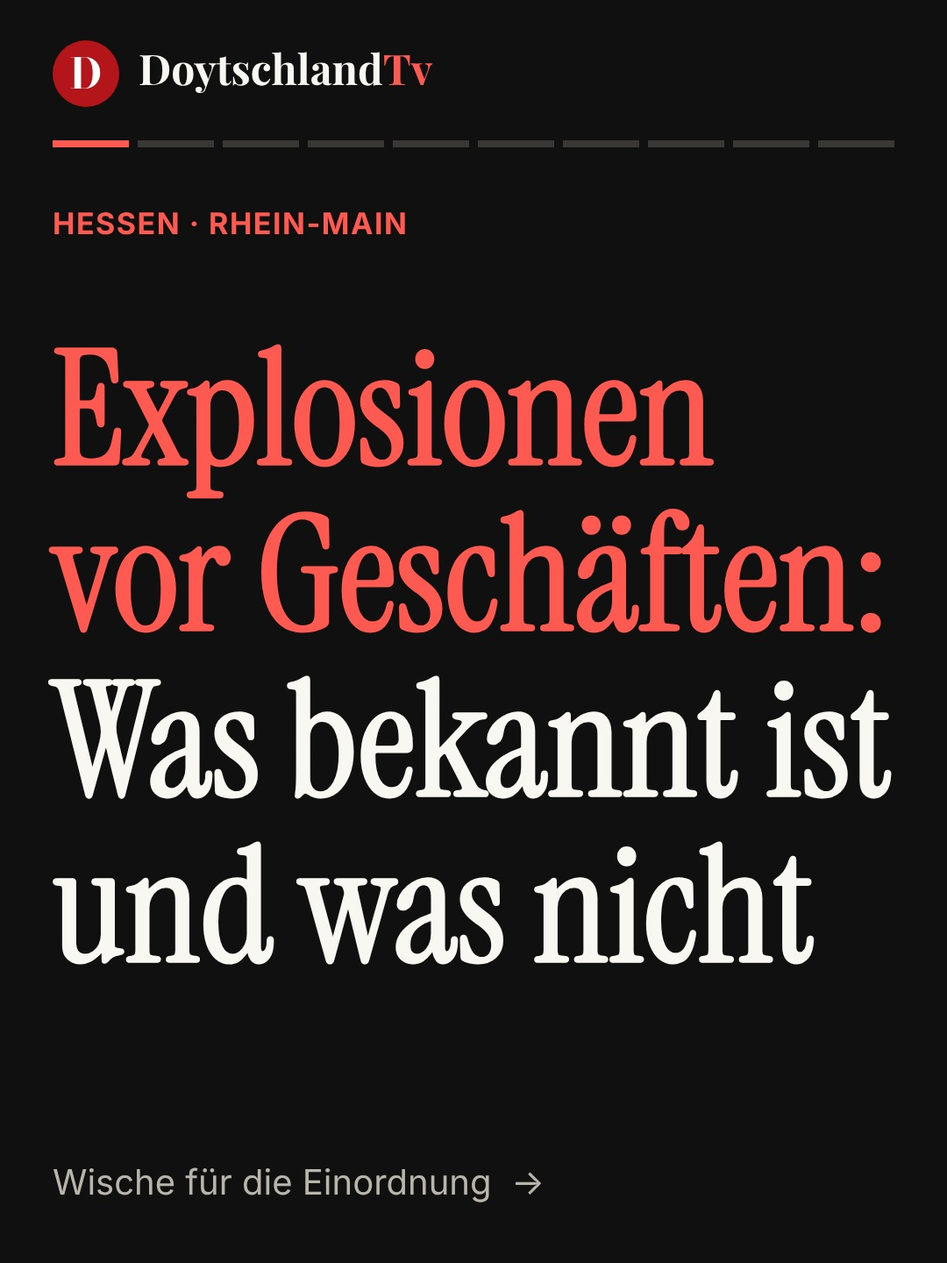
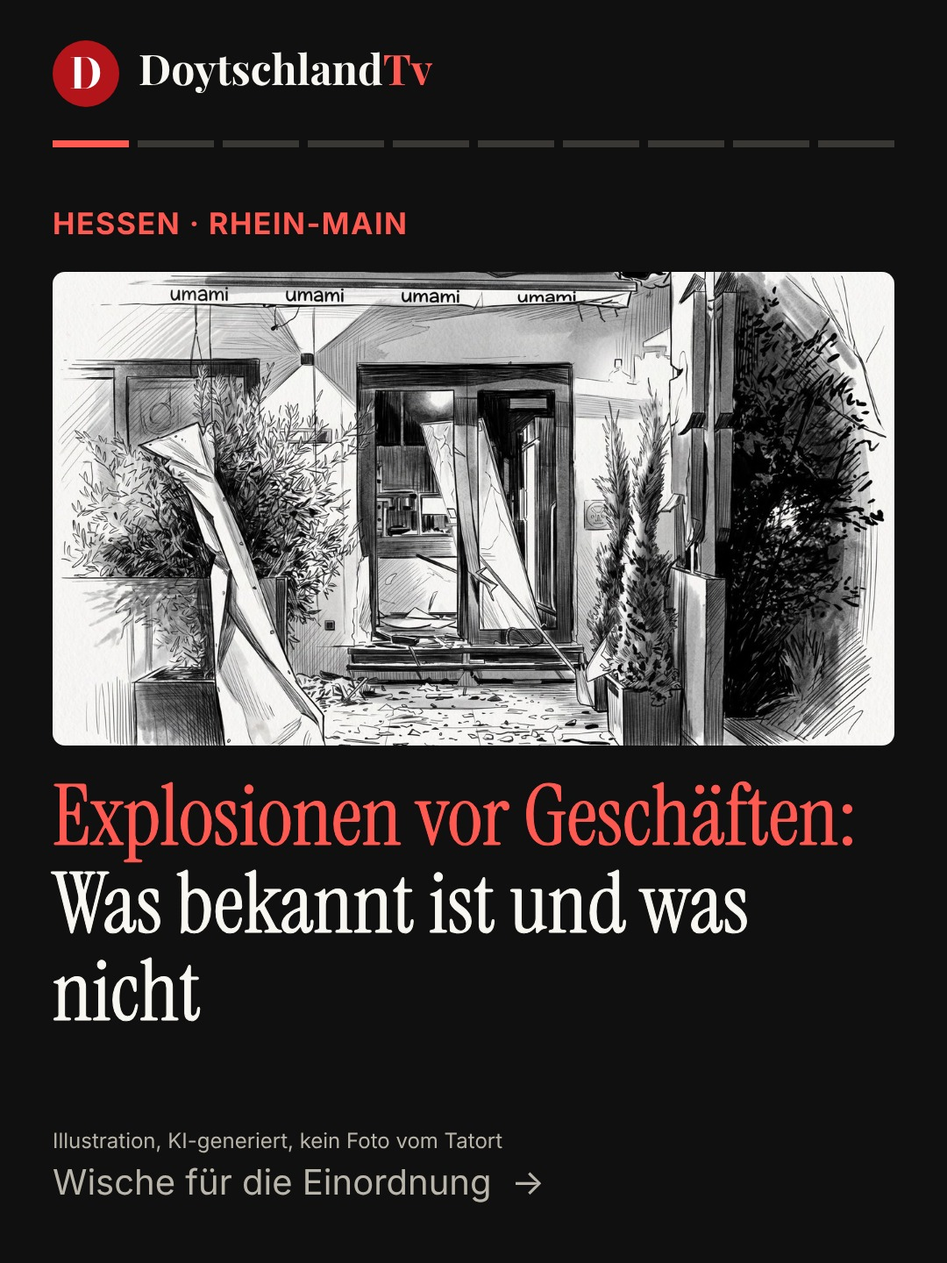
Entwurf Hofheim: Titelbild
Claude-Session: https://claude.ai/code/session_01HADCkE2LZJHKQCUdz9XwMJ

diff --git a/beitrag/2026-10-19-explosionen-vor-geschaeften-hofheim-und-die-serie-im-rhein-main-gebiet.html b/beitrag/2026-10-19-explosionen-vor-geschaeften-hofheim-und-die-serie-im-rhein-main-gebiet.html
@@ -5,10 +5,10 @@
 <link rel="canonical" href="https://doytschtv.de/beitrag/2026-10-19-explosionen-vor-geschaeften-hofheim-und-die-serie-im-rhein-main-gebiet.html">
 <meta name="robots" content="index,follow,max-image-preview:large">
 <meta property="og:type" content="article"><meta property="og:site_name" content="DoytschlandTv"><meta property="og:locale" content="de_DE">
-<meta property="og:title" content="Explosionen vor Geschäften: Hofheim und die Serie im Rhein-Main-Gebiet"><meta property="og:description" content="Am Eingang des Imbisses „Umami Kebabkunst“ explodierte in der Nacht zu Montag ein Sprengsatz. Glastüren wurden herausgerissen, Fenster zerbrachen, auch im…"><meta property="og:url" content="https://doytschtv.de/beitrag/2026-10-19-explosionen-vor-geschaeften-hofheim-und-die-serie-im-rhein-main-gebiet.html"><meta property="og:image" content="https://doytschtv.de/og-image.png">
-<meta name="twitter:card" content="summary_large_image"><meta name="twitter:title" content="Explosionen vor Geschäften: Hofheim und die Serie im Rhein-Main-Gebiet"><meta name="twitter:description" content="Am Eingang des Imbisses „Umami Kebabkunst“ explodierte in der Nacht zu Montag ein Sprengsatz. Glastüren wurden herausgerissen, Fenster zerbrachen, auch im…"><meta name="twitter:image" content="https://doytschtv.de/og-image.png">
+<meta property="og:title" content="Explosionen vor Geschäften: Hofheim und die Serie im Rhein-Main-Gebiet"><meta property="og:description" content="Am Eingang des Imbisses „Umami Kebabkunst“ explodierte in der Nacht zu Montag ein Sprengsatz. Glastüren wurden herausgerissen, Fenster zerbrachen, auch im…"><meta property="og:url" content="https://doytschtv.de/beitrag/2026-10-19-explosionen-vor-geschaeften-hofheim-und-die-serie-im-rhein-main-gebiet.html"><meta property="og:image" content="https://doytschtv.de/titel-hofheim.jpg">
+<meta name="twitter:card" content="summary_large_image"><meta name="twitter:title" content="Explosionen vor Geschäften: Hofheim und die Serie im Rhein-Main-Gebiet"><meta name="twitter:description" content="Am Eingang des Imbisses „Umami Kebabkunst“ explodierte in der Nacht zu Montag ein Sprengsatz. Glastüren wurden herausgerissen, Fenster zerbrachen, auch im…"><meta name="twitter:image" content="https://doytschtv.de/titel-hofheim.jpg">
 <meta name="theme-color" content="#0b0b10"><link rel="apple-touch-icon" href="/favicon.png">
-<script type="application/ld+json">{"@context": "https://schema.org", "@type": "NewsArticle", "headline": "Explosionen vor Geschäften: Hofheim und die Serie im Rhein-Main-Gebiet", "description": "Am Eingang des Imbisses „Umami Kebabkunst“ explodierte in der Nacht zu Montag ein Sprengsatz. Glastüren wurden herausgerissen, Fenster zerbrachen, auch im…", "datePublished": "2026-10-19", "dateModified": "2026-10-19", "inLanguage": "de", "mainEntityOfPage": "https://doytschtv.de/beitrag/2026-10-19-explosionen-vor-geschaeften-hofheim-und-die-serie-im-rhein-main-gebiet.html", "image": ["https://doytschtv.de/og-image.png"], "author": {"@type": "Organization", "name": "DoytschlandTv", "url": "https://doytschtv.de/"}, "publisher": {"@type": "Organization", "name": "DoytschlandTv", "logo": {"@type": "ImageObject", "url": "https://doytschtv.de/favicon.png"}}, "articleSection": "Nachrichten", "keywords": ["doytschlandtv", "aktuell", "hofheim", "frankfurt", "hessen", "explosion", "nsu", "sicherheit", "einordnung", "nachrichten"]}</script>
+<script type="application/ld+json">{"@context": "https://schema.org", "@type": "NewsArticle", "headline": "Explosionen vor Geschäften: Hofheim und die Serie im Rhein-Main-Gebiet", "description": "Am Eingang des Imbisses „Umami Kebabkunst“ explodierte in der Nacht zu Montag ein Sprengsatz. Glastüren wurden herausgerissen, Fenster zerbrachen, auch im…", "datePublished": "2026-10-19", "dateModified": "2026-10-19", "inLanguage": "de", "mainEntityOfPage": "https://doytschtv.de/beitrag/2026-10-19-explosionen-vor-geschaeften-hofheim-und-die-serie-im-rhein-main-gebiet.html", "image": ["https://doytschtv.de/titel-hofheim.jpg"], "author": {"@type": "Organization", "name": "DoytschlandTv", "url": "https://doytschtv.de/"}, "publisher": {"@type": "Organization", "name": "DoytschlandTv", "logo": {"@type": "ImageObject", "url": "https://doytschtv.de/favicon.png"}}, "articleSection": "Nachrichten", "keywords": ["doytschlandtv", "aktuell", "hofheim", "frankfurt", "hessen", "explosion", "nsu", "sicherheit", "einordnung", "nachrichten"]}</script>
 <link rel="stylesheet" href="/fonts.css"><link rel="stylesheet" href="/styles.css"><link rel="stylesheet" href="/briefing.css">
 <style>:root{color-scheme:light}body{margin:0}</style><link rel="icon" type="image/png" href="/favicon.png"></head><body>
-<header class="nav"><div class="wrap"><a class="brand" href="/index.html"><span class="mk" aria-hidden="true">D</span><img class="lg-l" src="/logo.png" alt="DoytschlandTv" width="136" height="25"><img class="lg-d" src="/logo-dark.png" alt="DoytschlandTv" width="136" height="25"></a><ul><li><a href="/briefing.html">Briefing</a></li><li><a href="/nachrichten.html" class=on>Nachrichten</a></li><li><a href="/dossiers.html">Dossiers</a></li><li><a href="/meinungen.html">Meinungen</a></li><li><a href="/erklaert.html">Erklärt</a></li><li><a href="/ueber-uns.html">Über uns</a></li></ul><span class="nav-so"><a href="https://www.instagram.com/doytschlandtv/" target="_blank" rel="noopener" aria-label="DoytschlandTv auf Instagram"><svg viewBox="0 0 24 24" fill="none" stroke="currentColor" stroke-width="2" stroke-linecap="round" aria-hidden="true"><rect x="3" y="3" width="18" height="18" rx="5"/><circle cx="12" cy="12" r="4.2"/><circle cx="17.3" cy="6.7" r=".6" fill="currentColor"/></svg></a><a href="https://www.tiktok.com/@doytschlandtv" target="_blank" rel="noopener" aria-label="DoytschlandTv auf TikTok"><svg viewBox="0 0 24 24" fill="currentColor" aria-hidden="true"><path d="M16.6 5.8A4.3 4.3 0 0 1 15.5 3h-3.1v12.4a2.6 2.6 0 1 1-1.8-2.5V9.7a5.7 5.7 0 1 0 4.9 5.7V9a7.3 7.3 0 0 0 4.3 1.4V7.3a4.3 4.3 0 0 1-3.2-1.5z"/></svg></a></span></div></header><main><div class="wrap"><article class="kol"><p class="b-eyebrow">Nachrichten · Hessen · Rhein-Main</p><h1 class="mk-h1">Explosionen vor Geschäften: Hofheim und die Serie im Rhein-Main-Gebiet</h1><p class="mk-meta">19. Oktober 2026</p><h2>Hofheim, 19. Oktober</h2><p><strong>Knall um 3:45 Uhr.</strong></p><p>Am Eingang des Imbisses „Umami Kebabkunst“ explodierte in der Nacht zu Montag ein Sprengsatz. Glastüren wurden herausgerissen, Fenster zerbrachen, auch im Obergeschoss. Niemand wurde verletzt. Die Polizei geht von Vorsatz aus, das LKA unterstützt. Täter und Motiv sind unbekannt.</p><h2>Die Chronik</h2><p><strong>Seit Sommer 2025.</strong></p><p>2025: Pizzeria Offenbach (17.7.), Café Bockenheim (29.7. und 5.8.), Kiosk Neu-Isenburg (7.9.), Shisha-Bar Offenbach (18.12.). 2026: Mutmaßlicher Kopf festgenommen (3.3.), 15-Jähriger zu 4 Jahren 3 Monaten Jugendstrafe verurteilt (23.3.), fünf Explosionen in Frankfurt und Offenbach vom 13. bis 17. September.</p><h2>Die Orte</h2><p><strong>Es wird nichts erbeutet.</strong></p><p>Getroffen wurden Cafés, Bars, Shisha-Bars, Kioske, ein Imbiss und Hauseingänge, meist nachts, meist ohne Verletzte. Die Täter kennen die Opfer in der Regel nicht. Sie bekommen nur eine Adresse und müssen die Tat filmen. Bei einem Geldautomaten ginge es um Beute, hier offenbar um Einschüchterung.</p><h2>Die Hintermänner</h2><p><strong>„Violence as a Service“</strong></p><p>Jugendliche und junge Erwachsene werden online angeworben und bezahlt, im Café-Fall mit 3.000 Euro. Als mögliche Motive nennt das LKA Einschüchterung von Rivalen im Drogenhandel oder von Zeugen, Schutzgelderpressung und Rache. In Hessen zählte das LKA 2025 19 solcher Taten. Europol meldet 280 Festnahmen in einem Jahr.</p><h2>Auch anderswo</h2><p><strong>Köln und Kassel.</strong></p><p>In Köln und Nordrhein-Westfalen ließ eine Bande nach dem Diebstahl von rund 300 Kilogramm Cannabis Rivalen mit elf Sprengstoffanschlägen einschüchtern, 35 Verdächtige wurden ermittelt. In Kassel wurden Gastronomen erpresst und mit Brandsätzen angegriffen, fünf Verdächtige sitzen fest.</p><h2>Behauptung und Fakt</h2><p><strong>NSU:</strong> Menschen, ausgewählt nach Herkunft, von einer festen rechtsextremen Gruppe ermordet, zehn Todesopfer.</p><p><strong>Heute, nach Ermittlerangaben:</strong> Geschäftsräume, meist nachts, ohne Verletzte, von wechselnden bezahlten Tätern. Ein rechter Hintergrund wird in den Berichten nicht genannt.</p><h2>Die Lehre</h2><p><strong>Nicht wieder nur „Milieu“.</strong></p><p>Beim NSU suchten Ermittler jahrelang in der Organisierten Kriminalität und im Umfeld der Opfer. Familien wurden verdächtigt, ihre Hinweise auf Rechtsextreme kaum verfolgt. Der Bundestags-Untersuchungsausschuss kritisierte, dass daran festgehalten wurde, obwohl Spur um Spur ergebnislos blieb.</p><h2>Unsere Meinung</h2><p>Ermittler sehen ein Muster aus bezahlter Gewalt, und das ist ernst genug. Aber der NSU zeigt, was passiert, wenn man zu früh festlegt. Für Hofheim heißt das: alle Richtungen prüfen, die Betroffenen nicht verdächtigen und erst urteilen, wenn Ermittler und Gerichte es belegen.</p><h2>Was meinst du?</h2><p><strong>Was sollte der Staat gegen bezahlte Gewalt tun, die online angeworben wird?</strong></p><h2>Quellen</h2><ul><li>hessenschau, 19.10.2026; news-stadt.de, 19.10.2026</li><li>hessenschau, 8.8.2025, 18.12.2025, 4.3. und 23.3.2026; t-online (dpa), 17.9.2026</li><li>hessenschau, 17.3.2026; WNOZ (dpa), Hessisches LKA</li><li>hessenschau, 17.3.2026; WNOZ (dpa); AP/WTOP, April 2026</li><li>Tagesspiegel, 23.1.2025; hessenschau, 13.10.2026</li><li>bpb; Grundrechte-Report 2014 (Humanistische Union)</li></ul><p><a href="/nachrichten.html">Alle Karussells ansehen ›</a></p><p class="mk-meta">Fakten sind mit Quellen belegt, Meinung ist als „Unsere Meinung“ gekennzeichnet.</p></article></div></main><footer><div class="wrap"><span>© DoytschlandTv</span><span><a href="/impressum.html">Impressum</a> · <a href="/datenschutz.html">Datenschutz</a></span></div></footer></body></html>
+<header class="nav"><div class="wrap"><a class="brand" href="/index.html"><span class="mk" aria-hidden="true">D</span><img class="lg-l" src="/logo.png" alt="DoytschlandTv" width="136" height="25"><img class="lg-d" src="/logo-dark.png" alt="DoytschlandTv" width="136" height="25"></a><ul><li><a href="/briefing.html">Briefing</a></li><li><a href="/nachrichten.html" class=on>Nachrichten</a></li><li><a href="/dossiers.html">Dossiers</a></li><li><a href="/meinungen.html">Meinungen</a></li><li><a href="/erklaert.html">Erklärt</a></li><li><a href="/ueber-uns.html">Über uns</a></li></ul><span class="nav-so"><a href="https://www.instagram.com/doytschlandtv/" target="_blank" rel="noopener" aria-label="DoytschlandTv auf Instagram"><svg viewBox="0 0 24 24" fill="none" stroke="currentColor" stroke-width="2" stroke-linecap="round" aria-hidden="true"><rect x="3" y="3" width="18" height="18" rx="5"/><circle cx="12" cy="12" r="4.2"/><circle cx="17.3" cy="6.7" r=".6" fill="currentColor"/></svg></a><a href="https://www.tiktok.com/@doytschlandtv" target="_blank" rel="noopener" aria-label="DoytschlandTv auf TikTok"><svg viewBox="0 0 24 24" fill="currentColor" aria-hidden="true"><path d="M16.6 5.8A4.3 4.3 0 0 1 15.5 3h-3.1v12.4a2.6 2.6 0 1 1-1.8-2.5V9.7a5.7 5.7 0 1 0 4.9 5.7V9a7.3 7.3 0 0 0 4.3 1.4V7.3a4.3 4.3 0 0 1-3.2-1.5z"/></svg></a></span></div></header><main><div class="wrap"><article class="kol"><p class="b-eyebrow">Nachrichten · Hessen · Rhein-Main</p><h1 class="mk-h1">Explosionen vor Geschäften: Hofheim und die Serie im Rhein-Main-Gebiet</h1><p class="mk-meta">19. Oktober 2026</p><figure style="margin:1rem 0"><img src="/titel-hofheim.jpg" alt="Explosionen vor Geschäften: Hofheim und die Serie im Rhein-Main-Gebiet" style="width:100%;height:auto;border-radius:1rem" loading="lazy"><figcaption class="mk-meta">Illustration, KI-generiert, kein Foto vom Tatort</figcaption></figure><h2>Hofheim, 19. Oktober</h2><p><strong>Knall um 3:45 Uhr.</strong></p><p>Am Eingang des Imbisses „Umami Kebabkunst“ explodierte in der Nacht zu Montag ein Sprengsatz. Glastüren wurden herausgerissen, Fenster zerbrachen, auch im Obergeschoss. Niemand wurde verletzt. Die Polizei geht von Vorsatz aus, das LKA unterstützt. Täter und Motiv sind unbekannt.</p><h2>Die Chronik</h2><p><strong>Seit Sommer 2025.</strong></p><p>2025: Pizzeria Offenbach (17.7.), Café Bockenheim (29.7. und 5.8.), Kiosk Neu-Isenburg (7.9.), Shisha-Bar Offenbach (18.12.). 2026: Mutmaßlicher Kopf festgenommen (3.3.), 15-Jähriger zu 4 Jahren 3 Monaten Jugendstrafe verurteilt (23.3.), fünf Explosionen in Frankfurt und Offenbach vom 13. bis 17. September.</p><h2>Die Orte</h2><p><strong>Es wird nichts erbeutet.</strong></p><p>Getroffen wurden Cafés, Bars, Shisha-Bars, Kioske, ein Imbiss und Hauseingänge, meist nachts, meist ohne Verletzte. Die Täter kennen die Opfer in der Regel nicht. Sie bekommen nur eine Adresse und müssen die Tat filmen. Bei einem Geldautomaten ginge es um Beute, hier offenbar um Einschüchterung.</p><h2>Die Hintermänner</h2><p><strong>„Violence as a Service“</strong></p><p>Jugendliche und junge Erwachsene werden online angeworben und bezahlt, im Café-Fall mit 3.000 Euro. Als mögliche Motive nennt das LKA Einschüchterung von Rivalen im Drogenhandel oder von Zeugen, Schutzgelderpressung und Rache. In Hessen zählte das LKA 2025 19 solcher Taten. Europol meldet 280 Festnahmen in einem Jahr.</p><h2>Auch anderswo</h2><p><strong>Köln und Kassel.</strong></p><p>In Köln und Nordrhein-Westfalen ließ eine Bande nach dem Diebstahl von rund 300 Kilogramm Cannabis Rivalen mit elf Sprengstoffanschlägen einschüchtern, 35 Verdächtige wurden ermittelt. In Kassel wurden Gastronomen erpresst und mit Brandsätzen angegriffen, fünf Verdächtige sitzen fest.</p><h2>Behauptung und Fakt</h2><p><strong>NSU:</strong> Menschen, ausgewählt nach Herkunft, von einer festen rechtsextremen Gruppe ermordet, zehn Todesopfer.</p><p><strong>Heute, nach Ermittlerangaben:</strong> Geschäftsräume, meist nachts, ohne Verletzte, von wechselnden bezahlten Tätern. Ein rechter Hintergrund wird in den Berichten nicht genannt.</p><h2>Die Lehre</h2><p><strong>Nicht wieder nur „Milieu“.</strong></p><p>Beim NSU suchten Ermittler jahrelang in der Organisierten Kriminalität und im Umfeld der Opfer. Familien wurden verdächtigt, ihre Hinweise auf Rechtsextreme kaum verfolgt. Der Bundestags-Untersuchungsausschuss kritisierte, dass daran festgehalten wurde, obwohl Spur um Spur ergebnislos blieb.</p><h2>Unsere Meinung</h2><p>Ermittler sehen ein Muster aus bezahlter Gewalt, und das ist ernst genug. Aber der NSU zeigt, was passiert, wenn man zu früh festlegt. Für Hofheim heißt das: alle Richtungen prüfen, die Betroffenen nicht verdächtigen und erst urteilen, wenn Ermittler und Gerichte es belegen.</p><h2>Was meinst du?</h2><p><strong>Was sollte der Staat gegen bezahlte Gewalt tun, die online angeworben wird?</strong></p><h2>Quellen</h2><ul><li>hessenschau, 19.10.2026; news-stadt.de, 19.10.2026</li><li>hessenschau, 8.8.2025, 18.12.2025, 4.3. und 23.3.2026; t-online (dpa), 17.9.2026</li><li>hessenschau, 17.3.2026; WNOZ (dpa), Hessisches LKA</li><li>hessenschau, 17.3.2026; WNOZ (dpa); AP/WTOP, April 2026</li><li>Tagesspiegel, 23.1.2025; hessenschau, 13.10.2026</li><li>bpb; Grundrechte-Report 2014 (Humanistische Union)</li></ul><p><a href="/nachrichten.html">Alle Karussells ansehen ›</a></p><p class="mk-meta">Fakten sind mit Quellen belegt, Meinung ist als „Unsere Meinung“ gekennzeichnet.</p></article></div></main><footer><div class="wrap"><span>© DoytschlandTv</span><span><a href="/impressum.html">Impressum</a> · <a href="/datenschutz.html">Datenschutz</a></span></div></footer></body></html>

diff --git a/index.html b/index.html
@@ -64,7 +64,7 @@
         <h2 id="heute-h">Zuletzt im Blick</h2>
         <p id="heute-datum">19. Oktober 2026</p>
       </div>
-      <div class="hc-wrap"><button class="hc-b" id="hc-prev" type="button" aria-label="Zurück">&lsaquo;</button><div class="hc-rail" id="heute-liste" tabindex="0" aria-label="Schlagzeilen, seitlich wischen"><!--heute--><a class="hc" href="nachrichten.html#Explosionen%20vor%20Gesch%C3%A4ften%3A%20Hofheim%20und%20die%20Serie%20im%20Rhein-Main-Gebiet"><span class="hc-t"><span class="k">Nachrichten · Mo., 19.10.</span><strong>Explosionen vor Geschäften: Hofheim und die Serie im Rhein-Main-Gebiet</strong></span></a><a class="hc has-img" href="nachrichten.html#Merz%20l%C3%A4dt%20zum%20Investitionsgipfel%2C%20Nvidia-Chef%20Huang%20kommt"><span class="hc-i"><img class="bg" src="titel-merz.jpg" alt="" loading="lazy" aria-hidden="true"><img class="fg" src="titel-merz.jpg" alt="" loading="lazy"></span><span class="hc-t"><span class="k">Nachrichten · Mo., 19.10.</span><strong>Merz lädt zum Investitionsgipfel, Nvidia-Chef Huang kommt</strong><small>Illustration, KI-generiert, kein Foto</small></span></a><a class="hc has-img" href="nachrichten.html#AfD%20will%20Kosten%20und%20Nutzen%20der%20Zuwanderung%20bilanzieren"><span class="hc-i"><img class="bg" src="titel-migration.jpg" alt="" loading="lazy" aria-hidden="true"><img class="fg" src="titel-migration.jpg" alt="" loading="lazy"></span><span class="hc-t"><span class="k">Nachrichten · Mo., 19.10.</span><strong>AfD will Kosten und Nutzen der Zuwanderung bilanzieren</strong><small>Illustration, KI-generiert, kein Foto</small></span></a><a class="hc has-img" href="nachrichten.html#Frankreich%3A%20Macron%20droht%20mit%20Demonstrationsverboten"><span class="hc-i"><img class="bg" src="titel-macron.jpg" alt="" loading="lazy" aria-hidden="true"><img class="fg" src="titel-macron.jpg" alt="" loading="lazy"></span><span class="hc-t"><span class="k">Nachrichten · Mo., 19.10.</span><strong>Frankreich: Macron droht mit Demonstrationsverboten</strong><small>Illustration, KI-generiert, kein Foto</small></span></a><a class="hc has-img" href="nachrichten.html#%E2%80%9EEuropa%20brennt%E2%80%9C%3F%20Was%20die%20viralen%20Bilder%20zeigen%20und%20was%20nicht"><span class="hc-i"><img class="bg" src="titel-europa.jpg" alt="" loading="lazy" aria-hidden="true"><img class="fg" src="titel-europa.jpg" alt="" loading="lazy"></span><span class="hc-t"><span class="k">Nachrichten · Mo., 19.10.</span><strong>„Europa brennt“? Was die viralen Bilder zeigen und was nicht</strong><small>Illustration, KI-generiert, kein Foto</small></span></a><a class="hc has-img" href="nachrichten.html#Morning%20Briefing%2C%20Montag%2C%2019.%20Oktober%202026"><span class="hc-i"><img class="bg" src="titel-morning-briefing.jpg" alt="" loading="lazy" aria-hidden="true"><img class="fg" src="titel-morning-briefing.jpg" alt="" loading="lazy"></span><span class="hc-t"><span class="k">Nachrichten · Mo., 19.10.</span><strong>Morning Briefing, Montag, 19. Oktober 2026</strong><small>Grafik, DoytschlandTv</small></span></a><a class="hc has-img" href="nachrichten.html#Trump%20setzt%20neue%20Russland-Sanktionen%20aus"><span class="hc-i"><img class="bg" src="titel-russland.jpg" alt="" loading="lazy" aria-hidden="true"><img class="fg" src="titel-russland.jpg" alt="" loading="lazy"></span><span class="hc-t"><span class="k">Nachrichten · Mo., 19.10.</span><strong>Trump setzt neue Russland-Sanktionen aus</strong><small>Illustration, KI-generiert, kein Foto</small></span></a><a class="hc has-img" href="nachrichten.html#Berlin%3A%20Linke%2C%20Gr%C3%BCne%20und%20SPD%20wollen%20gro%C3%9Fe%20Wohnungskonzerne%20vergesellschaften"><span class="hc-i"><img class="bg" src="titel-berlin.jpg" alt="" loading="lazy" aria-hidden="true"><img class="fg" src="titel-berlin.jpg" alt="" loading="lazy"></span><span class="hc-t"><span class="k">Nachrichten · Mo., 19.10.</span><strong>Berlin: Linke, Grüne und SPD wollen große Wohnungskonzerne vergesellschaften</strong><small>Illustration, KI-generiert, kein Foto</small></span></a><a class="hc" href="nachrichten.html#Morning%20Briefing%2C%20Sonntag%2C%2018.%20Oktober%202026"><span class="hc-t"><span class="k">Nachrichten · So., 18.10.</span><strong>Morning Briefing, Sonntag, 18. Oktober 2026</strong></span></a><a class="hc has-img" href="nachrichten.html#Frankreich%3A%20Landesweiter%20Protesttag%20endet%20mit%20schweren%20Krawallen"><span class="hc-i"><img class="bg" src="titel-frankreich.jpg" alt="" loading="lazy" aria-hidden="true"><img class="fg" src="titel-frankreich.jpg" alt="" loading="lazy"></span><span class="hc-t"><span class="k">Nachrichten · So., 18.10.</span><strong>Frankreich: Landesweiter Protesttag endet mit schweren Krawallen</strong><small>Illustration, KI-generiert, kein Foto</small></span></a><a class="hc has-img" href="nachrichten.html#WDR%20will%20sein%20Angebot%20bis%202030%20halbieren"><span class="hc-i"><img class="bg" src="titel-wdr.jpg" alt="" loading="lazy" aria-hidden="true"><img class="fg" src="titel-wdr.jpg" alt="" loading="lazy"></span><span class="hc-t"><span class="k">Nachrichten · So., 18.10.</span><strong>WDR will sein Angebot bis 2030 halbieren</strong><small>Illustration, KI-generiert, kein Foto</small></span></a><a class="hc has-img" href="briefing.html#2026-10-19"><span class="hc-i"><img class="bg" src="titel-briefing.jpg" alt="" loading="lazy" aria-hidden="true"><img class="fg" src="titel-briefing.jpg" alt="" loading="lazy"></span><span class="hc-t"><span class="k">Morning Briefing</span><strong>Frankreich: Nach dem Protesttag rund 2.000 Festnahmen und 4 weitere Themen</strong><small>Illustration, KI-generiert, kein Foto</small></span></a><a class="hc has-img" href="meinungen.html#2026-10-11"><span class="hc-i"><img class="bg" src="kolumne-christ.jpg" alt="" loading="lazy" aria-hidden="true"><img class="fg" src="kolumne-christ.jpg" alt="" loading="lazy"></span><span class="hc-t"><span class="k">Kolumne · Demokratie</span><strong>Selbstauskunft ist keine Kontrolle: Was der Fall Christ über Beratergremien zeigt</strong><small>Illustration, KI-generiert, kein Foto.</small></span></a><a class="hc" href="erklaert.html#schuldenbremse"><span class="hc-t"><span class="k">Erklärt</span><strong>Schuldenbremse und Sondervermögen</strong></span></a><!--/heute--></div><button class="hc-b nx" id="hc-next" type="button" aria-label="Weiter">&rsaquo;</button></div>
+      <div class="hc-wrap"><button class="hc-b" id="hc-prev" type="button" aria-label="Zurück">&lsaquo;</button><div class="hc-rail" id="heute-liste" tabindex="0" aria-label="Schlagzeilen, seitlich wischen"><!--heute--><a class="hc has-img" href="nachrichten.html#Explosionen%20vor%20Gesch%C3%A4ften%3A%20Hofheim%20und%20die%20Serie%20im%20Rhein-Main-Gebiet"><span class="hc-i"><img class="bg" src="titel-hofheim.jpg" alt="" loading="lazy" aria-hidden="true"><img class="fg" src="titel-hofheim.jpg" alt="" loading="lazy"></span><span class="hc-t"><span class="k">Nachrichten · Mo., 19.10.</span><strong>Explosionen vor Geschäften: Hofheim und die Serie im Rhein-Main-Gebiet</strong><small>Illustration, KI-generiert, kein Foto vom Tatort</small></span></a><a class="hc has-img" href="nachrichten.html#Merz%20l%C3%A4dt%20zum%20Investitionsgipfel%2C%20Nvidia-Chef%20Huang%20kommt"><span class="hc-i"><img class="bg" src="titel-merz.jpg" alt="" loading="lazy" aria-hidden="true"><img class="fg" src="titel-merz.jpg" alt="" loading="lazy"></span><span class="hc-t"><span class="k">Nachrichten · Mo., 19.10.</span><strong>Merz lädt zum Investitionsgipfel, Nvidia-Chef Huang kommt</strong><small>Illustration, KI-generiert, kein Foto</small></span></a><a class="hc has-img" href="nachrichten.html#AfD%20will%20Kosten%20und%20Nutzen%20der%20Zuwanderung%20bilanzieren"><span class="hc-i"><img class="bg" src="titel-migration.jpg" alt="" loading="lazy" aria-hidden="true"><img class="fg" src="titel-migration.jpg" alt="" loading="lazy"></span><span class="hc-t"><span class="k">Nachrichten · Mo., 19.10.</span><strong>AfD will Kosten und Nutzen der Zuwanderung bilanzieren</strong><small>Illustration, KI-generiert, kein Foto</small></span></a><a class="hc has-img" href="nachrichten.html#Frankreich%3A%20Macron%20droht%20mit%20Demonstrationsverboten"><span class="hc-i"><img class="bg" src="titel-macron.jpg" alt="" loading="lazy" aria-hidden="true"><img class="fg" src="titel-macron.jpg" alt="" loading="lazy"></span><span class="hc-t"><span class="k">Nachrichten · Mo., 19.10.</span><strong>Frankreich: Macron droht mit Demonstrationsverboten</strong><small>Illustration, KI-generiert, kein Foto</small></span></a><a class="hc has-img" href="nachrichten.html#%E2%80%9EEuropa%20brennt%E2%80%9C%3F%20Was%20die%20viralen%20Bilder%20zeigen%20und%20was%20nicht"><span class="hc-i"><img class="bg" src="titel-europa.jpg" alt="" loading="lazy" aria-hidden="true"><img class="fg" src="titel-europa.jpg" alt="" loading="lazy"></span><span class="hc-t"><span class="k">Nachrichten · Mo., 19.10.</span><strong>„Europa brennt“? Was die viralen Bilder zeigen und was nicht</strong><small>Illustration, KI-generiert, kein Foto</small></span></a><a class="hc has-img" href="nachrichten.html#Morning%20Briefing%2C%20Montag%2C%2019.%20Oktober%202026"><span class="hc-i"><img class="bg" src="titel-morning-briefing.jpg" alt="" loading="lazy" aria-hidden="true"><img class="fg" src="titel-morning-briefing.jpg" alt="" loading="lazy"></span><span class="hc-t"><span class="k">Nachrichten · Mo., 19.10.</span><strong>Morning Briefing, Montag, 19. Oktober 2026</strong><small>Grafik, DoytschlandTv</small></span></a><a class="hc has-img" href="nachrichten.html#Trump%20setzt%20neue%20Russland-Sanktionen%20aus"><span class="hc-i"><img class="bg" src="titel-russland.jpg" alt="" loading="lazy" aria-hidden="true"><img class="fg" src="titel-russland.jpg" alt="" loading="lazy"></span><span class="hc-t"><span class="k">Nachrichten · Mo., 19.10.</span><strong>Trump setzt neue Russland-Sanktionen aus</strong><small>Illustration, KI-generiert, kein Foto</small></span></a><a class="hc has-img" href="nachrichten.html#Berlin%3A%20Linke%2C%20Gr%C3%BCne%20und%20SPD%20wollen%20gro%C3%9Fe%20Wohnungskonzerne%20vergesellschaften"><span class="hc-i"><img class="bg" src="titel-berlin.jpg" alt="" loading="lazy" aria-hidden="true"><img class="fg" src="titel-berlin.jpg" alt="" loading="lazy"></span><span class="hc-t"><span class="k">Nachrichten · Mo., 19.10.</span><strong>Berlin: Linke, Grüne und SPD wollen große Wohnungskonzerne vergesellschaften</strong><small>Illustration, KI-generiert, kein Foto</small></span></a><a class="hc" href="nachrichten.html#Morning%20Briefing%2C%20Sonntag%2C%2018.%20Oktober%202026"><span class="hc-t"><span class="k">Nachrichten · So., 18.10.</span><strong>Morning Briefing, Sonntag, 18. Oktober 2026</strong></span></a><a class="hc has-img" href="nachrichten.html#Frankreich%3A%20Landesweiter%20Protesttag%20endet%20mit%20schweren%20Krawallen"><span class="hc-i"><img class="bg" src="titel-frankreich.jpg" alt="" loading="lazy" aria-hidden="true"><img class="fg" src="titel-frankreich.jpg" alt="" loading="lazy"></span><span class="hc-t"><span class="k">Nachrichten · So., 18.10.</span><strong>Frankreich: Landesweiter Protesttag endet mit schweren Krawallen</strong><small>Illustration, KI-generiert, kein Foto</small></span></a><a class="hc has-img" href="nachrichten.html#WDR%20will%20sein%20Angebot%20bis%202030%20halbieren"><span class="hc-i"><img class="bg" src="titel-wdr.jpg" alt="" loading="lazy" aria-hidden="true"><img class="fg" src="titel-wdr.jpg" alt="" loading="lazy"></span><span class="hc-t"><span class="k">Nachrichten · So., 18.10.</span><strong>WDR will sein Angebot bis 2030 halbieren</strong><small>Illustration, KI-generiert, kein Foto</small></span></a><a class="hc has-img" href="briefing.html#2026-10-19"><span class="hc-i"><img class="bg" src="titel-briefing.jpg" alt="" loading="lazy" aria-hidden="true"><img class="fg" src="titel-briefing.jpg" alt="" loading="lazy"></span><span class="hc-t"><span class="k">Morning Briefing</span><strong>Frankreich: Nach dem Protesttag rund 2.000 Festnahmen und 4 weitere Themen</strong><small>Illustration, KI-generiert, kein Foto</small></span></a><a class="hc has-img" href="meinungen.html#2026-10-11"><span class="hc-i"><img class="bg" src="kolumne-christ.jpg" alt="" loading="lazy" aria-hidden="true"><img class="fg" src="kolumne-christ.jpg" alt="" loading="lazy"></span><span class="hc-t"><span class="k">Kolumne · Demokratie</span><strong>Selbstauskunft ist keine Kontrolle: Was der Fall Christ über Beratergremien zeigt</strong><small>Illustration, KI-generiert, kein Foto.</small></span></a><a class="hc" href="erklaert.html#schuldenbremse"><span class="hc-t"><span class="k">Erklärt</span><strong>Schuldenbremse und Sondervermögen</strong></span></a><!--/heute--></div><button class="hc-b nx" id="hc-next" type="button" aria-label="Weiter">&rsaquo;</button></div>
     </div>
   </section>
 

diff --git a/briefings.js b/briefings.js
@@ -538,7 +538,12 @@ window.BRIEFINGS = [
       "typ": "hook",
       "kicker": "Hessen · Rhein-Main",
       "titel": "Explosionen vor Geschäften: Was bekannt ist und was nicht",
-      "rot": "Explosionen vor Geschäften"
+      "rot": "Explosionen vor Geschäften",
+      "bild": {
+       "url": "titel-hofheim.jpg",
+       "fokus": 0.5,
+       "unter": "Illustration, KI-generiert, kein Foto vom Tatort"
+      }
      },
      {
       "typ": "fakten",
@@ -717,7 +722,12 @@ window.BRIEFINGS = [
     "rot": "Explosionen vor Geschäften",
     "text": "Hofheim, die Serie und die Lehre aus dem NSU, im Karussell, Link in der Bio.",
     "quelle": "hessenschau; t-online (dpa); WNOZ (dpa), 2025/2026",
-    "theme": "dark"
+    "theme": "dark",
+    "bild": {
+     "url": "titel-hofheim.jpg",
+     "fokus": 0.5,
+     "unter": "Illustration, KI-generiert, kein Foto vom Tatort"
+    }
    }
   ]
  },
